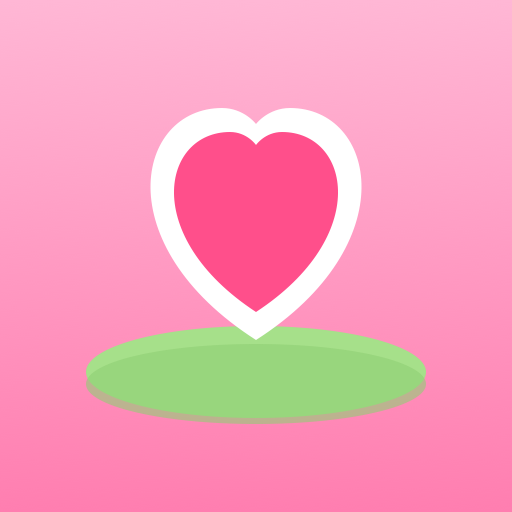
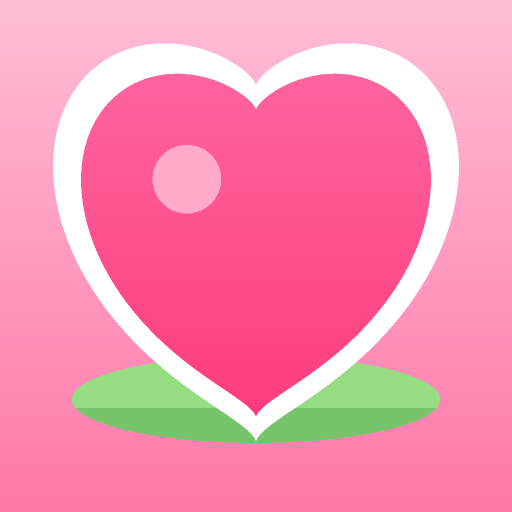
Finále po 18 srdiečkach, vianočný úvod, nový list a nová ikona

diff --git a/js/main.js b/js/main.js
@@ -164,7 +164,8 @@ function collect(id, hg) {
   map.mark(id, true, true);
   refreshHud();
   const n = state.hearts.length;
-  toast(n === total ? 'Máš všetky srdiečka! 💗 Na mape ťa čaká list…' : `Našla si srdiečko! 💗 ${n}/${total}`);
+  toast(n === total ? 'Máš všetky srdiečka! 💗' : `Našla si srdiečko! 💗 ${n}/${total}`);
+  if (n === total) setTimeout(startFinale, 2200);
   if (current === id) $('p-hint').textContent = 'Srdiečko z tejto spomienky už máš 💗';
 }
 
@@ -380,12 +381,99 @@ function onLetter() {
   state.letterSeen = true; save();
 }
 $('l-close').onclick = () => { $('letter').hidden = true; };
+$('l-again').onclick = () => { $('letter').hidden = true; startFinale(); };
+// srdiečka plávajúce za listom
+(() => { const box = $('l-float'), e = ['💗', '💕', '💖', '🩷', '🤍'];
+  for (let i = 0; i < 26; i++) { const s = document.createElement('span'); s.textContent = e[i % e.length]; s.style.left = (i * 37 % 100) + '%'; s.style.fontSize = (16 + (i * 7 % 22)) + 'px'; s.style.animationDuration = (7 + (i * 13 % 8)) + 's'; s.style.animationDelay = (-(i * 1.7 % 12)) + 's'; box.appendChild(s); } })();
+
+// ---------- finále po poslednom srdiečku ----------
+const FW = 1100, fwPos = new Float32Array(FW * 3).fill(9999), fwVel = new Float32Array(FW * 3), fwLife = new Float32Array(FW), fwCol = new Float32Array(FW * 3);
+const fwGeo = new THREE.BufferGeometry(); fwGeo.setAttribute('position', new THREE.BufferAttribute(fwPos, 3)); fwGeo.setAttribute('color', new THREE.BufferAttribute(fwCol, 3));
+const fireworks = new THREE.Points(fwGeo, new THREE.PointsMaterial({ map: dot, size: 1.15, vertexColors: true, transparent: true, depthWrite: false, blending: THREE.AdditiveBlending, fog: false }));
+fireworks.frustumCulled = false; fireworks.visible = false; scene.add(fireworks);
+let fwNext = 0;
+const FWC = ['#ff5d96', '#ffd24a', '#ffffff', '#ff9cc4', '#ffb020', '#c9a0ff'];
+function burst(x, y, z, n = 90) {
+  const c = new THREE.Color(FWC[Math.floor(Math.random() * FWC.length)]), sp = 5 + Math.random() * 4;
+  for (let k = 0; k < n; k++) {
+    const i = fwNext; fwNext = (fwNext + 1) % FW;
+    const a = Math.random() * Math.PI * 2, e = Math.acos(Math.random() * 2 - 1), v = sp * (0.6 + Math.random() * 0.4);
+    fwPos[i * 3] = x; fwPos[i * 3 + 1] = y; fwPos[i * 3 + 2] = z;
+    fwVel[i * 3] = Math.sin(e) * Math.cos(a) * v; fwVel[i * 3 + 1] = Math.cos(e) * v; fwVel[i * 3 + 2] = Math.sin(e) * Math.sin(a) * v;
+    fwLife[i] = 1.4 + Math.random() * 0.9; fwCol[i * 3] = c.r; fwCol[i * 3 + 1] = c.g; fwCol[i * 3 + 2] = c.b;
+  }
+  fwGeo.attributes.color.needsUpdate = true;
+}
+function updateFireworks(dt) {
+  if (!fireworks.visible) return;
+  let alive = false;
+  for (let i = 0; i < FW; i++) {
+    if (fwLife[i] <= 0) continue;
+    fwLife[i] -= dt; alive = true;
+    if (fwLife[i] <= 0) { fwPos[i * 3 + 1] = 9999; continue; }
+    fwVel[i * 3 + 1] -= 4.5 * dt; const d = 1 - 1.2 * dt;
+    for (let k = 0; k < 3; k++) { fwVel[i * 3 + k] *= d; fwPos[i * 3 + k] += fwVel[i * 3 + k] * dt; }
+    if (fwLife[i] < 0.5) { fwCol[i * 3] *= 0.94; fwCol[i * 3 + 1] *= 0.94; fwCol[i * 3 + 2] *= 0.94; }
+  }
+  fwGeo.attributes.position.needsUpdate = true; fwGeo.attributes.color.needsUpdate = true;
+  if (!alive && !finale) fireworks.visible = false;
+}
+let finale = null;
+const FINALE_ENV = { sky: ['#191343', '#d9588f'], fog: ['#4a2f6e', 120, 320], sun: ['#ffd0e0', 1.5, [30, 50, 20]], hemi: ['#c9b8ff', '#ff9cc4', 1.7], shadows: false, stars: true, fx: 'hearts' };
+function startFinale() {
+  if (finale) return;
+  if (mode === 'scene') { if (tween) return setTimeout(startFinale, 600); exitScene(); return setTimeout(startFinale, 1500); }
+  if (tween) return setTimeout(startFinale, 600);
+  const F = map.finale, T = F.target;
+  hideBubble(); hideHint(); closeSheet(); $('letter').hidden = true;
+  map.setComplete(false);
+  finale = { t0: clock.elapsedTime + 0.5, fw: 0, letter: false };
+  fireworks.visible = true;
+  music.play('finale');
+  // noc, aby ohňostroj vynikol
+  through(() => { applyEnv(FINALE_ENV); controls.maxPolarAngle = 1.55; });
+  const far = innerWidth < innerHeight ? 1.55 : 1;
+  flyTo([T[0] + 2, 10.5, T[2] + 30 * far], [T[0], 10, T[2]], 3.4);
+}
+const easeOut = (k) => 1 - Math.pow(1 - k, 3);
+function updateFinale(t) {
+  if (!finale) return;
+  const F = map.finale, T = F.target, tt = t - finale.t0, n = F.flyers.length;
+  // srdiečka letia zo všetkých spomienok k obláčiku
+  F.flyers.forEach((f, i) => {
+    const k = (tt - 1.6 - i * 0.16) / 1.7;
+    f.mesh.visible = k > 0 && k < 1;
+    if (!f.mesh.visible) return;
+    const e = k * k * (3 - 2 * k);
+    f.mesh.position.set(f.from[0] + (T[0] - f.from[0]) * e, f.from[1] + (T[1] - f.from[1]) * e + Math.sin(k * Math.PI) * 9, f.from[2] + (T[2] - f.from[2]) * e);
+    f.mesh.rotation.y = tt * 5 + i; f.mesh.scale.setScalar(0.9 * (1 - e * 0.5));
+  });
+  const tBig = 1.6 + n * 0.16 + 1.2;
+  if (tt > tBig) {
+    const k = Math.min(1, (tt - tBig) / 1.3), el = 1 + Math.pow(2, -9 * k) * Math.sin((k * 9 - 0.75) * 2.094) * (k < 1 ? 1 : 0);
+    F.big.visible = F.halo.visible = true; F.big.scale.setScalar(3.4 * Math.max(0.01, k < 1 ? el * easeOut(k) + (1 - easeOut(k)) * 0.01 : 1 + Math.sin(t * 2.4) * 0.06));
+    F.big.rotation.y = Math.sin(t * 0.7) * 0.5;
+    if (tt > finale.fw) { finale.fw = tt + 0.28 + Math.random() * 0.3; const a = Math.random() * Math.PI * 2, r = 6 + Math.random() * 13; burst(T[0] + Math.cos(a) * r, 8 + Math.random() * 11, T[2] + Math.sin(a) * r * 0.6 - 3); }
+  }
+  if (tt > tBig + 1.6) { const k = Math.min(1, (tt - tBig - 1.6) / 0.9); F.words.visible = true; F.words.scale.set(11 * easeOut(k), 2.2 * easeOut(k), 1); }
+  if (tt > tBig + 7.5 && !finale.letter) { finale.letter = true; onLetter(); }
+  if (tt > tBig + 20 && $('letter').hidden) { finale = null; map.setComplete(true); state.finaleSeen = true; save(); through(() => { applyEnv(MAP_ENV); setControls(false); fwLife.fill(0); fwPos.fill(9999); fwGeo.attributes.position.needsUpdate = true; fireworks.visible = false; const h = mapHome(); camera.position.set(...h.pos); controls.target.set(...h.target); }); }
+}
+
 
 // ---------- zámok a úvod ----------
 const norm = (s) => s.toLowerCase().normalize('NFD').replace(/[̀-ͯ]/g, '').replace(/[^a-z]/g, '');
+// Vianoce: pri úplne prvom otvorení a potom každý rok od 20. decembra do 6. januára
+const now = new Date(), xmasTime = (now.getMonth() === 11 && now.getDate() >= 20) || (now.getMonth() === 0 && now.getDate() <= 6);
 function showIntro() {
   $('gate-lock').hidden = true; $('gate-intro').hidden = false;
-  $('intro-nick').textContent = 'cukrík';
+  if (!(xmasTime || !state.introSeen)) return;
+  $('gate').classList.add('xmas');
+  $('intro-e').textContent = '🎄';
+  $('intro-h').textContent = 'Šťastné a veselé Vianoce, cukrík';
+  $('intro-p').innerHTML = 'Tento rok som ti chcel dať niečo, čo sa nedá kúpiť.<br>Postavil som ti svet z našich spomienok. Na každom ostrove nejaká čaká. Pozri si ich v akom poradí chceš a v každej skús nájsť jedno schované srdiečko.';
+  const box = $('snow');
+  if (!box.childElementCount) for (let i = 0; i < 40; i++) { const s = document.createElement('span'); s.textContent = i % 3 ? '❄' : '•'; s.style.left = (i * 53 % 100) + '%'; s.style.fontSize = (10 + (i * 7 % 16)) + 'px'; s.style.animationDuration = (6 + (i * 11 % 9)) + 's'; s.style.animationDelay = (-(i * 1.3 % 12)) + 's'; s.style.opacity = 0.5 + (i % 5) * 0.1; box.appendChild(s); }
 }
 $('gate-form').onsubmit = (e) => {
   e.preventDefault();
@@ -397,6 +485,7 @@ $('gate-form').onsubmit = (e) => {
   $('gate-msg').textContent = ugly ? 'Takto by som ťa nikdy nenazval 🙈' : 'To nie je ono 🙂 Ako ťa volám najradšej?';
 };
 $('start').onclick = () => {
+  state.introSeen = true; save();
   music.unlock(); music.setMuted(state.muted); music.play('mapa');
   $('gate').classList.add('gone'); setTimeout(() => { $('gate').hidden = true; }, 700);
   flyTo(mapHome().pos, MAP_CAM.target, 2.6);
@@ -421,17 +510,20 @@ renderer.setAnimationLoop(() => {
   const dt = Math.min(clock.getDelta(), 0.05), t = clock.elapsedTime;
   if (tween) tween();
   // kamera nesmie ujsť príliš ďaleko
-  if (mode === 'map') { controls.target.x = THREE.MathUtils.clamp(controls.target.x, -48, 46); controls.target.z = THREE.MathUtils.clamp(controls.target.z, -34, 44); controls.target.y = 0; }
+  if (mode === 'map') { controls.target.x = THREE.MathUtils.clamp(controls.target.x, -48, 46); controls.target.z = THREE.MathUtils.clamp(controls.target.z, -34, 44); if (!finale) controls.target.y = 0; }
   else { lim.copy(controls.target); lim.y = 0; if (lim.length() > 7) { lim.setLength(7); controls.target.x = lim.x; controls.target.z = lim.z; } controls.target.y = THREE.MathUtils.clamp(controls.target.y, -1.5, 6); }
   controls.update();
   if (mode === 'map') map.update(t);
   else if (built[current]) for (const f of built[current].updates) f(t, dt);
   updateFx(t, dt);
+  updateFinale(t); updateFireworks(dt);
   waterNormal.offset.set(t * 0.012, t * 0.008);
   placeBubble();
   renderer.render(scene, camera);
 });
 
 // ladenie: ?scene=tatry otvorí rovno scénu
-window.__world = { enterScene, exitScene, buildScene, state, camera, controls, music };
+if (state.hearts.length === total) map.setComplete(true);
+if (xmasTime) { MAP_ENV.fx = 'snow'; setFx('snow'); }
+window.__world = { startFinale,  enterScene, exitScene, buildScene, state, camera, controls, music };
 if ('serviceWorker' in navigator && !['localhost', '127.0.0.1'].includes(location.hostname)) navigator.serviceWorker.register('sw.js').catch(() => {});

diff --git a/js/map.js b/js/map.js
@@ -114,7 +114,7 @@ export function buildMap(api) {
       const hit = new THREE.Mesh(new THREE.SphereGeometry(1.9, 8, 6), new THREE.MeshBasicMaterial({ transparent: true, opacity: 0, depthWrite: false }));
       hit.position.y = 2.6; p.add(hit);
       p.userData.moment = m.id;
-      pins[m.id] = { heart: h, em };
+      pins[m.id] = { heart: h, em, pos: [I.pos[0] + p.position.x, 4.2, I.pos[1] + p.position.z] };
       const ph = i * 1.7 + I.pos[0];
       updates.push(t => { top.position.y = 2.4 + Math.sin(t * 2 + ph) * 0.18; h.rotation.y = Math.sin(t * 1.2 + ph) * 0.5; });
     });
@@ -131,6 +131,14 @@ export function buildMap(api) {
   env.userData.tap = () => api.onLetter();
   env.userData.tapH = 3.4;
   updates.push(t => { env.position.y = 3.2 + Math.sin(t * 0.8) * 0.35; letter.rotation.y = Math.sin(t * 0.6) * 0.35; });
+  // finále: veľké srdce nad obláčikom a srdiečka, ktoré k nemu priletia z každej spomienky
+  const CLOUD = [-13, 3.2, 6];
+  const big = heart(g, 3.4, M('#ff3f86', { emissive: '#ff2f7a', emissiveIntensity: 0.55 }), [CLOUD[0], 10.5, CLOUD[2]]); big.visible = false; big.castShadow = false;
+  const halo = new THREE.Mesh(new THREE.SphereGeometry(4.6, 20, 14), glow('#ff9cc4', 0.16)); halo.position.copy(big.position); halo.visible = false; g.add(halo);
+  const words = sprite(g, 'Ľúbkam ťa najviac 💗', 11, 2.2, { bg: '#ffffffee', fg: '#e0457e', size: 84, radius: 56 }, [CLOUD[0], 16.2, CLOUD[2]]); words.visible = false;
+  const flyers = MOMENTS.map(m => { const f = heart(g, 0.9, M('#ffc94a', { emissive: '#ffb020', emissiveIntensity: 0.5 }), pins[m.id].pos); f.visible = false; f.castShadow = false; return { mesh: f, from: pins[m.id].pos }; });
+  let complete = false;
+  updates.push(t => { if (complete) { const s = 3.4 * (1 + Math.sin(t * 2.4) * 0.06); big.scale.setScalar(s); big.rotation.y = Math.sin(t * 0.7) * 0.5; halo.scale.setScalar(1 + Math.sin(t * 2.4) * 0.08); } });
   // oblaky, balón
   const clouds = [];
   [[-48, 9, -6, 2.2], [-22, 11, 40, 1.8], [44, 10, 26, 2.4], [16, 12, -34, 2], [-6, 13, -30, 1.6], [48, 9, -18, 1.9], [-46, 10, 34, 1.7], [10, 14, 44, 1.5]].forEach(([x, y, z, s], i) => {
@@ -149,6 +157,8 @@ export function buildMap(api) {
   return {
     group: g,
     update: (t) => updates.forEach(f => f(t)),
+    finale: { big, halo, words, flyers, target: [CLOUD[0], 10.5, CLOUD[2]] },
+    setComplete(on) { complete = on; big.visible = halo.visible = words.visible = on; if (on) { big.scale.setScalar(3.4); words.scale.set(11, 2.2, 1); } },
     mark(id, visited, found) {
       const p = pins[id]; if (!p) return;
       p.heart.material = found ? M('#ffc94a') : visited ? M('#ff9cc0') : M('#ff4f8b');

diff --git a/css/style.css b/css/style.css
@@ -116,3 +116,19 @@ button { font: inherit; color: inherit; border: 0; cursor: pointer; }
 @media (prefers-reduced-motion: reduce) { * { animation-duration: .01s !important; } }
 
 .credits { text-align: center; font-size: 11px; font-weight: 700; color: var(--ink-2); padding: 8px 4px 2px; }
+
+/* list: srdiečka okolo */
+#letter { overflow: hidden; }
+#l-float { position: absolute; inset: 0; pointer-events: none; }
+#l-float span { position: absolute; bottom: -40px; animation: floatUp linear infinite; opacity: .85; }
+@keyframes floatUp { from { transform: translateY(0) rotate(-10deg); } 50% { transform: translateY(-55vh) rotate(12deg); } to { transform: translateY(-115vh) rotate(-8deg); opacity: 0; } }
+.letter-card { position: relative; border: 3px solid #ffd0e2; }
+.letter-card h2 { text-wrap: balance; }
+.l-row { font-size: 22px; letter-spacing: 6px; margin: 2px 0 10px; }
+#l-body p:last-child { font-weight: 900; color: var(--pink-d); font-size: 19px; }
+.link { display: block; margin: 14px auto 0; background: none; font-weight: 800; font-size: 13px; color: var(--ink-2); text-decoration: underline; min-height: 32px; }
+/* vianočný úvod: sneh */
+#snow { position: absolute; inset: 0; overflow: hidden; pointer-events: none; }
+#snow span { position: absolute; top: -30px; color: #fff; text-shadow: 0 0 6px rgba(255,255,255,.9); animation: snowFall linear infinite; }
+@keyframes snowFall { from { transform: translate(0, 0); } 50% { transform: translate(24px, 55vh); } to { transform: translate(-10px, 112vh); } }
+#gate.xmas { background: radial-gradient(circle at 50% 30%, rgba(255,225,235,.74), rgba(200,60,110,.9)); }

diff --git a/index.html b/index.html
@@ -52,12 +52,15 @@
 </div>
 
 <div id="letter" hidden>
+  <div id="l-float" aria-hidden="true"></div>
   <div class="letter-card">
-    <div class="l-heart">💌</div>
+    <div class="l-row" aria-hidden="true">💗 💕 💖 💕 💗</div>
     <h2 id="l-title"></h2>
     <div id="l-body"></div>
     <div id="l-sign"></div>
+    <div class="l-row" aria-hidden="true">💕 💗 💕</div>
     <button id="l-close" class="btn">Zavrieť 💗</button>
+    <button id="l-again" class="link">Pozrieť ohňostroj ešte raz</button>
   </div>
 </div>
 
@@ -65,6 +68,7 @@
 <div id="fade"><span>💗</span></div>
 
 <div id="gate">
+  <div id="snow" aria-hidden="true"></div>
   <div class="gate-card" id="gate-lock" hidden>
     <div class="g-heart">💗</div>
     <h1>Náš svet</h1>
@@ -76,9 +80,9 @@
     <div id="gate-msg"></div>
   </div>
   <div class="gate-card" id="gate-intro" hidden>
-    <div class="g-heart">💗</div>
-    <h1>Ahoj, <span id="intro-nick"></span></h1>
-    <p>Postavil som ti svet z našich spomienok.<br>Na každom ostrove nejaká čaká. Pozri si ich v akom poradí chceš a v každej skús nájsť jedno schované srdiečko.</p>
+    <div class="g-heart" id="intro-e">💗</div>
+    <h1 id="intro-h">Ahoj, cukrík</h1>
+    <p id="intro-p">Postavil som ti svet z našich spomienok.<br>Na každom ostrove nejaká čaká. Pozri si ich v akom poradí chceš a v každej skús nájsť jedno schované srdiečko.</p>
     <button id="start" class="btn">Vstúpiť</button>
     <div class="small">Zapni si zvuk 🔊</div>
   </div>

diff --git a/js/audio.js b/js/audio.js
@@ -41,6 +41,7 @@ const TRACKS = {
   praha: ['summer', 'piano', 100, 55], holandsko: ['play', 'guitar', 104, 62], alghero: ['summer', 'guitar', 108, 57],
   lod: ['warm', 'guitar', 70, 64],
 };
+const ALIAS = { finale: 'ruze' };
 const MAJOR = [0, 2, 4, 5, 7, 9, 11];
 const hz = (m) => 440 * Math.pow(2, (m - 69) / 12);
 
@@ -82,7 +83,8 @@ class Music {
     this.cur = id; this.stopSynth(); this.el.pause(); this.usingFile = false;
     const known = this.fileOK.get(id);
     if (known === false) return this.startSynth(id);
-    const urls = [`music/${id}.mp3`, `music/${id}.m4a`];
+    const f = ALIAS[id] || id;
+    const urls = [`music/${id}.mp3`, `music/${f}.mp3`, `music/${f}.m4a`];
     const tryFile = (url) => {
       this.el.onerror = () => { this.fileOK.set(id, false); if (this.cur === id) this.startSynth(id); };
       this.el.oncanplay = () => {
@@ -110,7 +112,7 @@ class Music {
   }
   startSynth(id) {
     if (!this.ctx) return;
-    const [themeName, inst, bpm, root] = TRACKS[id] || TRACKS.mapa;
+    const [themeName, inst, bpm, root] = TRACKS[id] || TRACKS[ALIAS[id]] || TRACKS.mapa;
     const th = THEMES[themeName];
     const deg = (n) => root + MAJOR[((n % 7) + 7) % 7] + 12 * Math.floor(n / 7);
     const steps = th.steps, stepDur = 60 / bpm / 2, bars = th.prog.length;

diff --git a/js/moments.js b/js/moments.js
@@ -120,14 +120,14 @@ export const MOMENTS = [
   },
 ];
 
-// Tajný list. Odomkne sa, keď nájde všetky srdiečka. Prepíš ho vlastnými slovami!
+// Tajný list. Odomkne sa, keď nájde všetky srdiečka.
 export const LETTER = {
-  title: 'Pre moju Magdušku',
+  title: 'Šťastné a veselé Vianoce, magdudarček',
   body: [
-    'Tento svet som ti postavil z našich spomienok, aby si si ich mohla pozrieť vždy, keď budeš chcieť.',
-    'Ďakujem ti za každý jeden deň. Za stanicu, za Tatry, za Taliansko aj za obyčajné rána na bicykli.',
-    'Teším sa na všetko, čo nás ešte čaká.',
-    'Ľúbim ťa.',
+    'Verím, že sa ti páčil aspoň tak, ako sa ty páčiš mne.',
+    'A verím, že do tohto sveta plného krásnych spomienok pribudne ešte nespočetné množstvo ďalších a ešte krajších.',
+    'Teším sa na to, čo nás čaká.',
+    'Ľúbkam ťa najviac, mua.',
   ],
-  sign: 'Tvoj Dominik',
+  sign: 'Tvoj Dominik'
 };

diff --git a/sw.js b/sw.js
@@ -1,5 +1,5 @@
 // Offline režim: najprv sieť, pri výpadku uložená kópia. Pri každom nasadení zvýš VERSION.
-const VERSION = 'nas-svet-7';
+const VERSION = 'nas-svet-8';
 self.addEventListener('install', () => self.skipWaiting());
 self.addEventListener('activate', (e) => e.waitUntil(
   caches.keys().then(keys => Promise.all(keys.filter(k => k !== VERSION).map(k => caches.delete(k)))).then(() => self.clients.claim())
